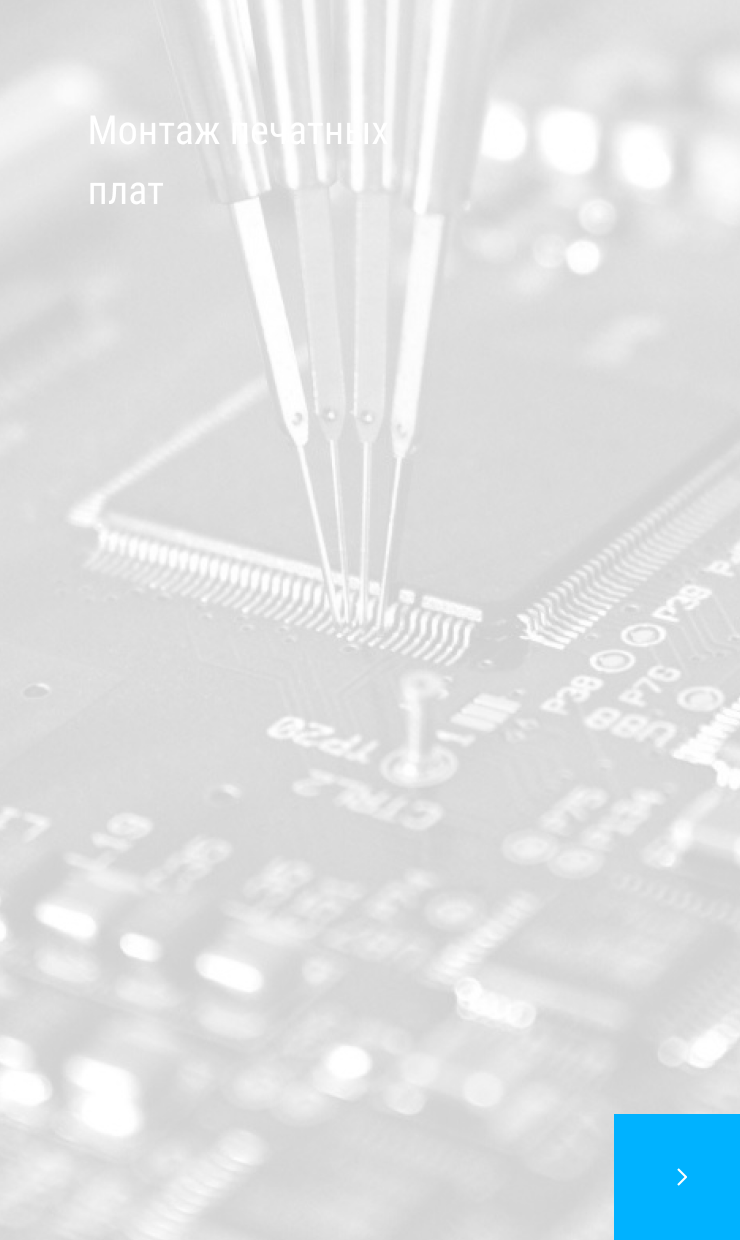
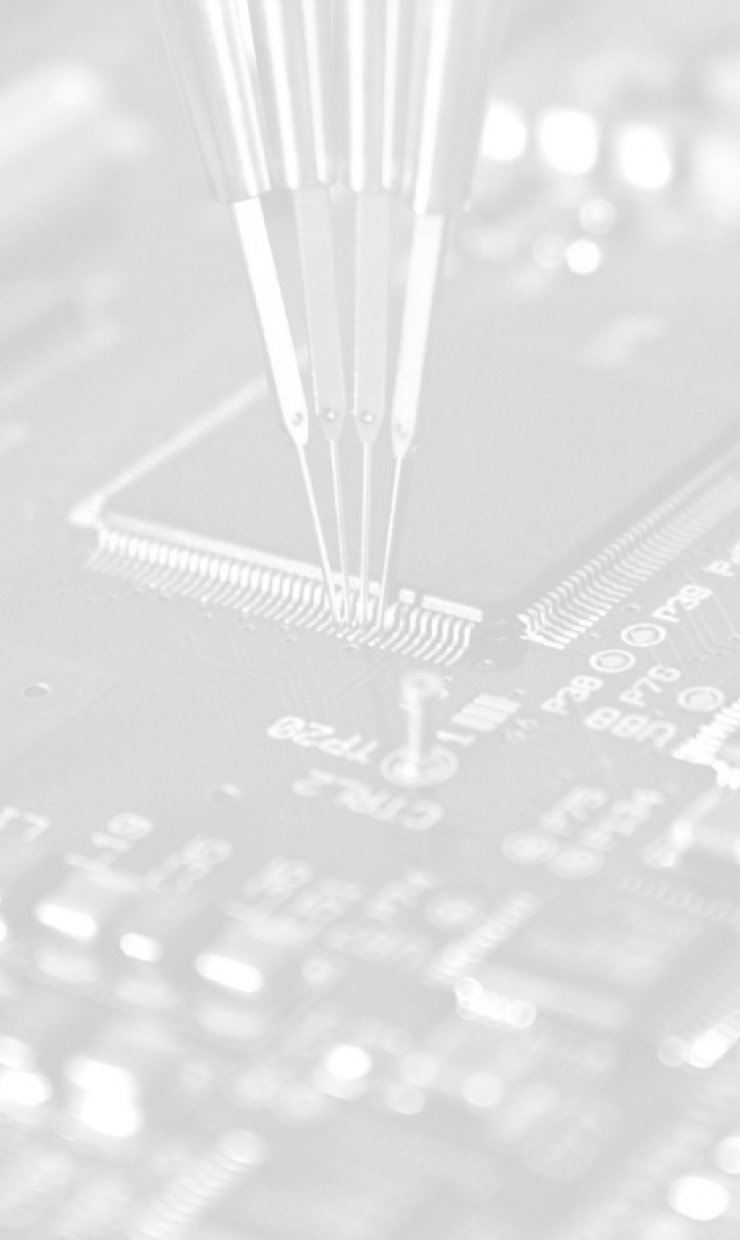
Импортирует фоновые изображения и дополняет стилизацию для блока services

diff --git a/index.html b/index.html
@@ -156,41 +156,49 @@
         </section>
       </section>
       <section class="services">
-        <h2 class="services__title">
-          Service Device предлагает следующие товары и услуги
-        </h2>
-        <ul class="services__list">
-          <li class="services__item">
-            <a class="services__link" href="#">
-              <h3 class="services__subtitle">
-                Производство печатных плат
-              </h3>
-              <span class="services__more">
-                <img class="icon__more" />
-              </span>
-            </a>
-          </li>
-          <li class="services__item">
-            <a class="services__link" href="#">
-              <h3 class="services__subtitle">
-                Монтаж печатных плат
-              </h3>
-              <span class="services__more">
-                <img class="icon__more" />
-              </span>
-            </a>
-          </li>
-          <li class="services__item">
-            <a class="services__link" href="#">
-              <h3 class="services__subtitle">
-                Комплектующие для светотехники
-              </h3>
-              <span class="services__more">
-                <img class="icon__more" />
-              </span>
-            </a>
-          </li>
-        </ul>
+        <div class="services__wrapper">
+          <h2 class="services__title">
+            Service Device предлагает следующие товары и услуги
+          </h2>
+          <ul class="services__list">
+            <li class="services__item services__item--production">
+              <a class="services__link" href="#">
+                <h3 class="services__subtitle">
+                  Производство печатных плат
+                </h3>
+                <div class="services__button-more">
+                  <svg width="6" height="9" viewBox="0 0 6 9" fill="none" xmlns="http://www.w3.org/2000/svg">
+                    <path d="M1 8.5L5 4.5L1 0.5" stroke="white" stroke-linejoin="round" />
+                  </svg>
+                </div>
+              </a>
+            </li>
+            <li class="services__item services__item--mounting">
+              <a class="services__link" href="#">
+                <h3 class="services__subtitle">
+                  Монтаж печатных плат
+                </h3>
+                <div class="services__button-more">
+                  <svg width="6" height="9" viewBox="0 0 6 9" fill="none" xmlns="http://www.w3.org/2000/svg">
+                    <path d="M1 8.5L5 4.5L1 0.5" stroke="white" stroke-linejoin="round" />
+                  </svg>
+                </div>
+              </a>
+            </li>
+            <li class="services__item services__item--lighting">
+              <a class="services__link" href="#">
+                <h3 class="services__subtitle">
+                  Комплектующие для светотехники
+                </h3>
+                <div class="services__button-more">
+                  <svg width="6" height="9" viewBox="0 0 6 9" fill="none" xmlns="http://www.w3.org/2000/svg">
+                    <path d="M1 8.5L5 4.5L1 0.5" stroke="white" stroke-linejoin="round" />
+                  </svg>
+                </div>
+              </a>
+            </li>
+          </ul>
+        </div>
       </section>
       <section class="question">
         <h2 class="visually-hidden">Форма для связи</h2>

diff --git a/assets/scss/blocks/services.scss b/assets/scss/blocks/services.scss
@@ -2,7 +2,17 @@
   background: #1b2d37;
 }
 
+.services__wrapper {
+  max-width: 1169px;
+  margin: 0 auto;
+  padding-top: 93px;
+  padding-bottom: 127px;
+}
+
 .services__list {
+  display: flex;
+  justify-content: space-between;
+  flex-wrap: wrap;
   list-style: none;
 
   a {
@@ -16,6 +26,8 @@
   font-size: 36px;
   line-height: 51px;
   color: #ffffff;
+  margin: 0;
+  padding-bottom: 34px;
 }
 
 .services__subtitle {
@@ -23,4 +35,39 @@
   font-weight: normal;
   font-size: 20px;
   line-height: 30px;
+  margin: 0;
+  padding: 53px 169px 0 44px;
+}
+
+.services__item {
+  width: 33%;
+  height: 620px;
+  background-repeat: no-repeat;
+
+  &--production {
+    background-image: url("../img/services-image1@1x.png");
+  }
+
+  &--mounting {
+    background-image: url("../img/services-image2@1x.png");
+  }
+
+  &--lighting {
+    background-image: url("../img/services-image3@1x.png");
+  }
+}
+
+.services__button-more {
+  width: 63px;
+  height: 63px;
+  background-color: #00b2ff;
+  position: relative;
+  top: 444px;
+  left: 307px;
+
+  svg {
+    position: absolute;
+    right: 26px;
+    top: 25px;
+  }
 }

diff --git a/assets/scss/blocks/question.scss b/assets/scss/blocks/question.scss
@@ -1,4 +1,6 @@
 .question {
+  display: flex;
+  justify-content: flex-end;
   background: #00b2ff;
   color: #ffffff;
   background-image: url("../img/form-background.png");
@@ -9,6 +11,7 @@
   font-weight: normal;
   font-size: 36px;
   line-height: 51px;
+  margin: 0;
 }
 
 .question__subtitle {
@@ -35,7 +38,14 @@
   color: #ffffff;
 }
 
+.question__form {
+  width: 672px;
+  padding-top: 104px;
+  padding-bottom: 114px;
+}
+
 .question__consent {
   color: #ffffff;
   opacity: 0.8;
+  margin: 0;
 }
